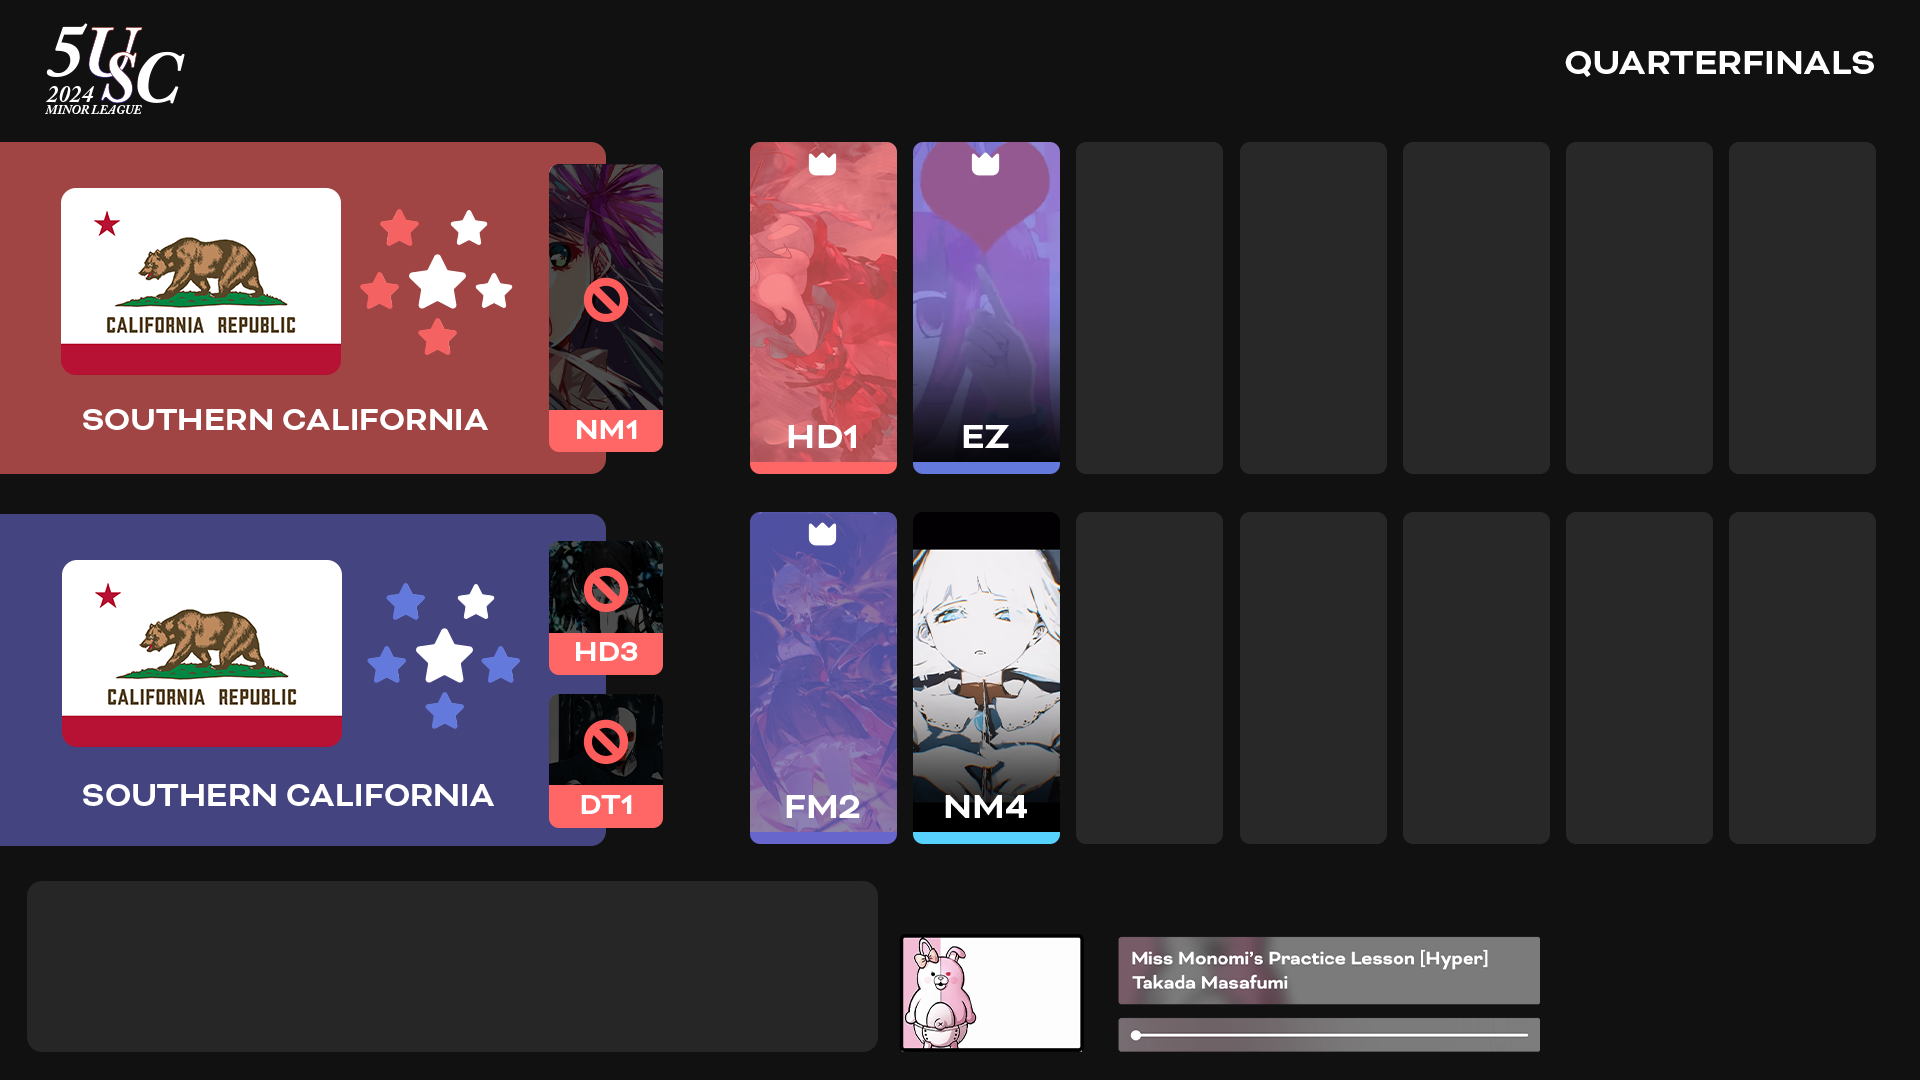
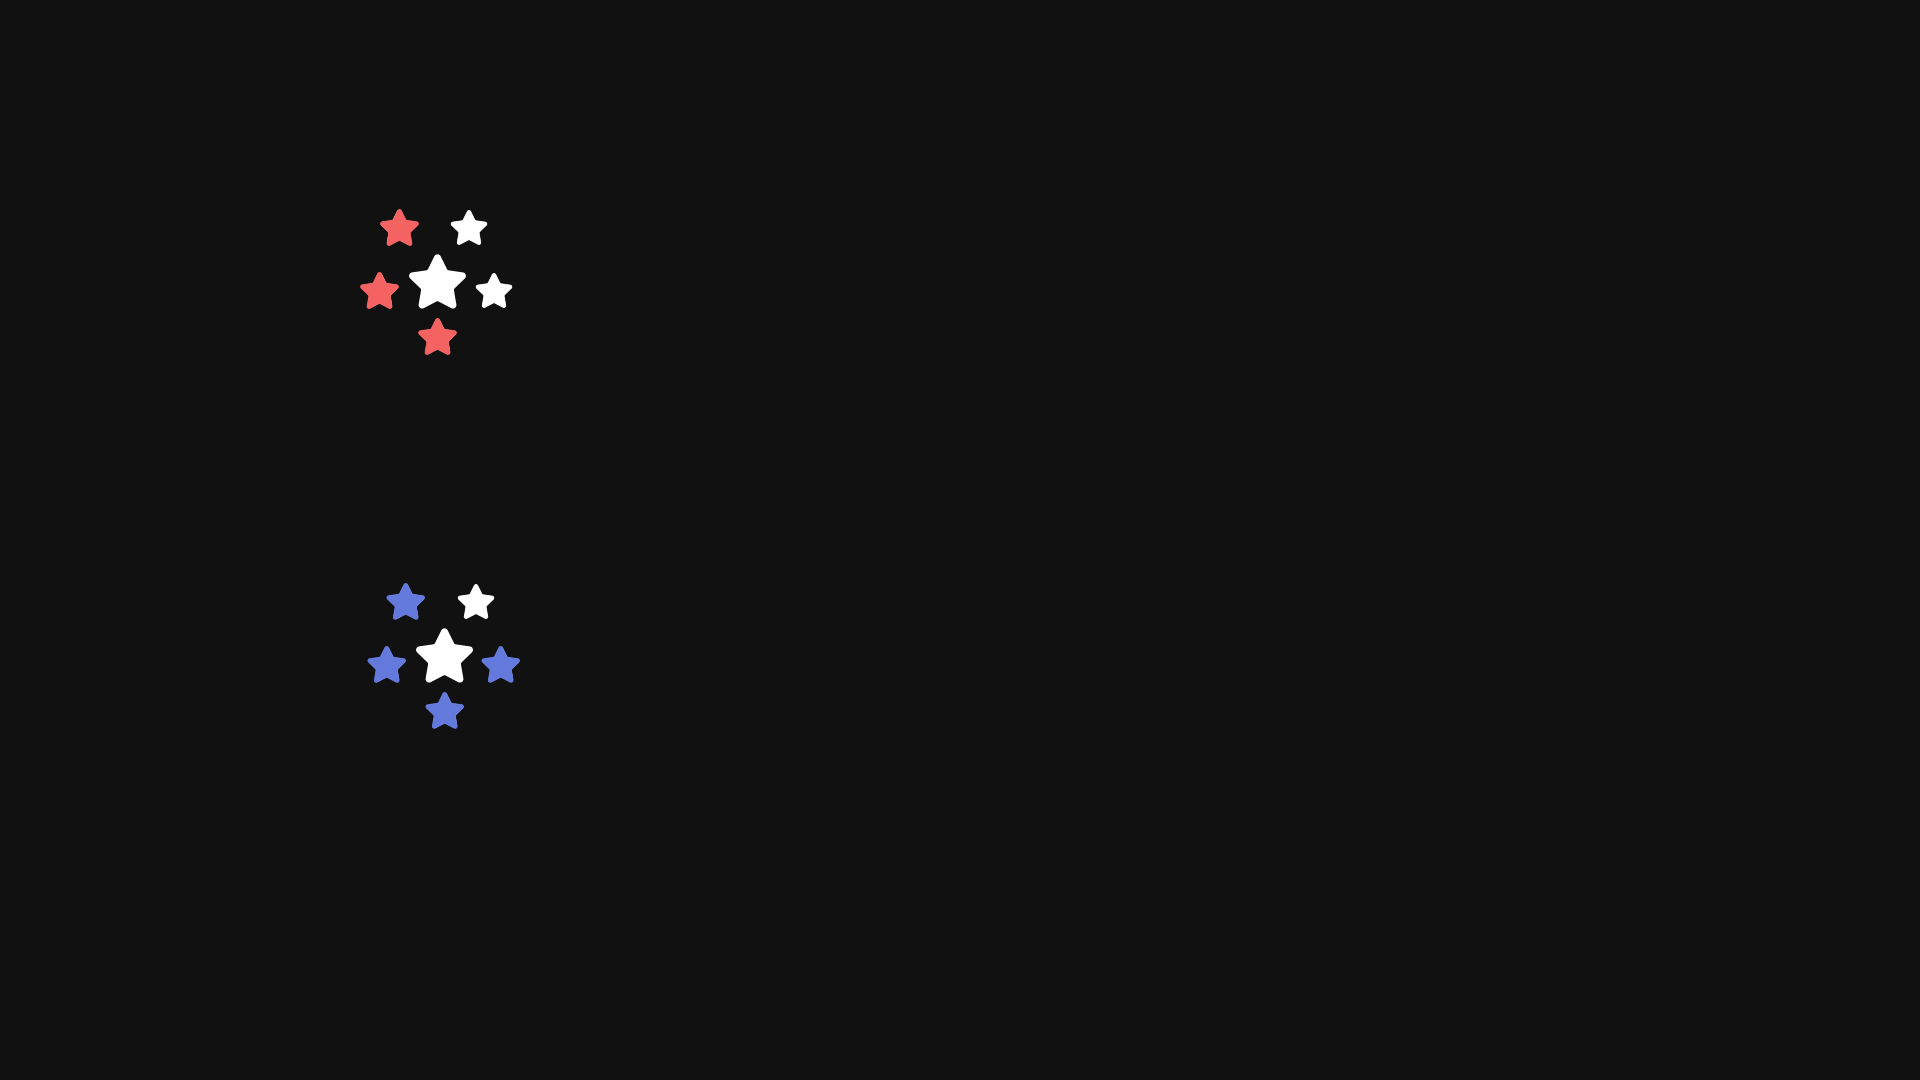
More mappool

diff --git a/mappool/style.css b/mappool/style.css
@@ -24,11 +24,159 @@
     width: 140px;
 }
 
-/* Team Section */
+/* Round Name */
 #roundName {
     position: absolute; right: 45px; top: 40px; 
     font-family: "Bicyclette"; font-weight: 800; font-size: 38px;
     color: white;
+}
+
+/* Team Section */
+/* Container */
+.teamSection {
+    position: absolute; left: 0; 
+    border-radius: 0 15px 15px 0;
+    width: 605px; height: 332px;
+}
+#redTeamSection {
+    top: 143px;
+    background-color: rgba(255, 102, 102, 0.6);
+}
+#blueTeamSection {
+    top: 514px;
+    background-color: rgba(102, 102, 204, 0.6);
+}
+/* Flags */
+.teamSectionFlag {
+    position: absolute; left: 61px; top: 46px;
+    width: 280px; height: 188px;
+}
+/* Team Name */
+.teamName { 
+    position: absolute; left: 284px; top: 256px; 
+    transform: translateX(-50%);
+    color: white;
+    width: max-content;
+    font-family: "Bicyclette"; font-weight: 800; font-size: 35px;
+}
+
+/* Team Bans */
+/* Team Ban Container */
+.teamBanContainer {
+    position: absolute; left: 100%; top: 50%;
+    transform: translate(-50%, -50%);
+    width: 114px; height: 288px;
+    display: flex;
+    flex-direction: column;
+    justify-content: space-between;
+}
+/* Team Bans */
+.teamBan {
+    position: relative;
+    border-radius: 10px;
+    overflow: hidden;
+    background-color: black;
+}
+.multipleTeamBan { height: 134px;}
+.oneTeamBan { flex-grow: 1; }
+/* Team Ban Image */
+.teamBanImage {
+    position: absolute; top: 0; left: 0;
+    width: 100%; height: calc(100% - 42px);
+    background-image: url("https://assets.ppy.sh/beatmaps/1262411/covers/cover.jpg");
+    background-position: center;
+    background-size: cover;
+    overflow: hidden;
+}
+/* Team Ban Layer*/
+.teamBanLayer {
+    position: absolute; top: 0; left: 0;
+    border-radius: inherit;
+    background-color: rgba(0,0,0,0.7);
+    width: 100%; height: 100%;
+}
+/* Banned Icon */
+.bannedIcon {
+    position: absolute; top: calc((100% - 42px) / 2); left: 50%;
+    transform: translate(-50%, -50%)
+}
+/* Team Banned Text */
+.teamBanText {
+    position: absolute; bottom: 0;
+    width: 100%; height: 42px;
+    background-color: #ff6666;
+    border-radius: 0 0 10px 10px;
+    text-align: center;
+    color: white;
+    font-family: "Bicyclette"; font-weight: 800; font-size: 31px;
+    line-height: 42px;
+}
+
+/* Red Team Section */
+.pickSection {
+    position: absolute; left: 750px;
+    width: 1125px; height: 332px;
+    display: flex;
+    justify-content: space-between;
+    gap: 10px;
+}
+#redPickSection { top: 142px; }
+#bluePickSection { top: 512px; }
+/* Pick Container */
+.pickContainer {
+    position: relative;
+    flex-grow: 1;
+    box-sizing: border-box;
+    width: calc(100% - 10px);
+    margin-right: 5px;
+    background-color: #282828;
+    border-radius: 10px;
+    overflow: hidden;
+}
+/* Pick Container Background Image */
+.pickContainerBackgroundImage {
+    position: absolute; left: 0; top: 0;
+    width: 100%; height: 100%;
+    background-image: url("https://assets.ppy.sh/beatmaps/1769121/covers/cover.jpg");
+    background-size: cover;
+    background-position: center;
+}
+/* Pick Container Winner */
+.pickContainerWinner {
+    position: absolute; left: 0; top: 0;
+    width: 100%; height: 100%;
+    background-color: rgba(0, 0, 0, 0)
+}
+.pickContainerWinnerRed { background-color: rgba(244, 98, 98, 0.7)}
+.pickContainerWinnerBlue { background-color: rgba(102, 102, 204, 0.7)}
+/* Pick Container Gradient */
+.pickContainerGradient {
+    position: absolute; bottom: 0;
+    width: 100%; height: 175px;
+    background-image: linear-gradient(0deg, rgba(0,0,0,1) 0%, rgba(0,0,0,0) 100%);
+}
+/* Pick Container Bottom */
+.pickContainerBottom {
+    position: absolute; bottom: 0;
+    width: 100%;
+    height: 12px;
+    background-color: #57d2ff; 
+}
+.pickContainerBottomRed { background-color: #ff6666; }
+.pickContainerBottomBlue { background-color: #6379db; }
+/* Pick Container Crown */
+.pickContainerCrown {
+    position: absolute; left: 50%; top: 10px;
+    transform: translateX(-50%);
+}
+/* Pick Container Text */
+.pickContainerText {
+    position: absolute; left: 50%; bottom: 14px;
+    transform: translateX(-50%);
+    font-size: 38px;
+    color: white;
+    font-weight: 800;
+    font-family: "Bicyclette";
 }
 
 /* Chat Display */

diff --git a/mappool/index.html b/mappool/index.html
@@ -18,8 +18,74 @@
         <!-- Round -->
         <div id="roundName">QUARTERFINALS</div>
 
+        <!-- Teams -->
+        <div class="teamSection" id="redTeamSection">
+            <img class="teamSectionFlag" id="redTeamSectionFlag" src="../flags/California (North).png">
+            <div class="teamName" id="redTeamName">SOUTHERN CALIFORNIA</div>
+            <div class="teamBanContainer" id="redTeamBanContainer">
+                <div class="teamBan oneTeamBan">
+                    <div class="teamBanImage"></div>
+                    <div class="teamBanLayer"></div>
+                    <img class="bannedIcon" src="static/banned.png">
+                    <div class="teamBanText">NM1</div>
+                </div>
+            </div>
+        </div>
+        <div class="teamSection" id="blueTeamSection">
+            <img class="teamSectionFlag" id="blueTeamSectionFlag" src="../flags/California (North).png">
+            <div class="teamName" id="blueTeamName">SOUTHERN CALIFORNIA</div>
+            <div class="teamBanContainer" id="blueTeamBanContainer">
+                <div class="teamBan multipleTeamBan">
+                    <div class="teamBanImage"></div>
+                    <div class="teamBanLayer"></div>
+                    <img class="bannedIcon" src="static/banned.png">
+                    <div class="teamBanText">NM1</div>
+                </div>
+                <div class="teamBan multipleTeamBan">
+                    <div class="teamBanImage"></div>
+                    <div class="teamBanLayer"></div>
+                    <img class="bannedIcon" src="static/banned.png">
+                    <div class="teamBanText">NM1</div>
+                </div>
+            </div>
+        </div>
+
+        <!-- Pick Container -->
+        <div class="pickSection" id="redPickSection">
+            <div class="pickContainer">
+                <div class="pickContainerBackgroundImage"></div>
+                <div class="pickContainerWinner pickContainerWinnerRed"></div>
+                <div class="pickContainerGradient"></div>
+                <div class="pickContainerBottom pickContainerBottomRed"></div>
+                <img class="pickContainerCrown" src="static/crown.png">
+                <div class="pickContainerText">HD1</div>
+            </div>
+            <div class="pickContainer"></div>
+            <div class="pickContainer"></div>
+            <div class="pickContainer"></div>
+            <div class="pickContainer"></div>
+        </div>
+        <div class="pickSection" id="bluePickSection">
+            <div class="pickContainer">
+                <div class="pickContainerBackgroundImage"></div>
+                <div class="pickContainerWinner pickContainerWinnerBlue"></div>
+                <div class="pickContainerGradient"></div>
+                <div class="pickContainerBottom pickContainerBottomBlue"></div>
+                <img class="pickContainerCrown" src="static/crown.png">
+                <div class="pickContainerText">HD1</div>
+            </div>
+            <div class="pickContainer"></div>
+            <div class="pickContainer"></div>
+            <div class="pickContainer"></div>
+            <div class="pickContainer"></div>
+            <div class="pickContainer"></div>
+            <div class="pickContainer"></div>
+        </div>
+
         <!-- Chat -->
         <div id="chatDisplay"></div>
+
+        <!-- TODO: PICKING TEXT AND ANIMATION -->
 
         <!-- Map Information Section -->
         <div id="mapInformationLeftContainer">
